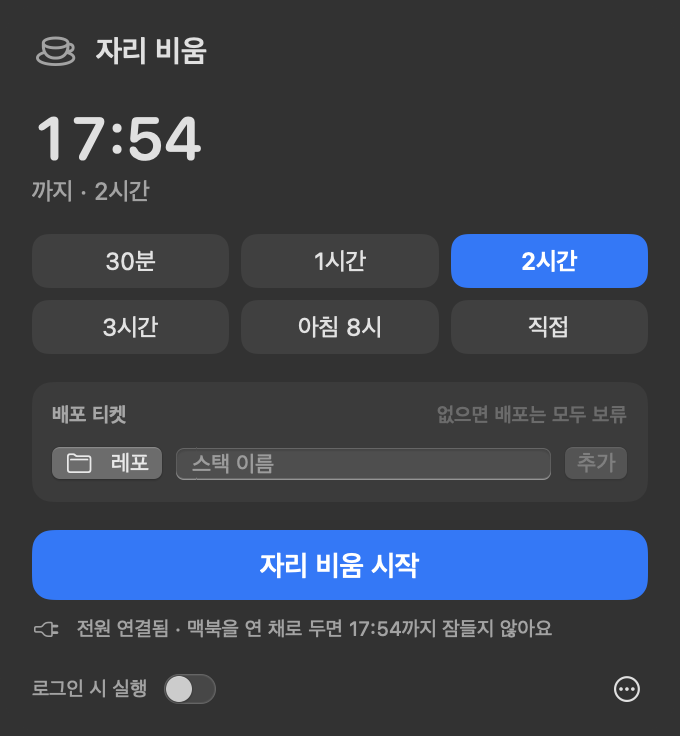
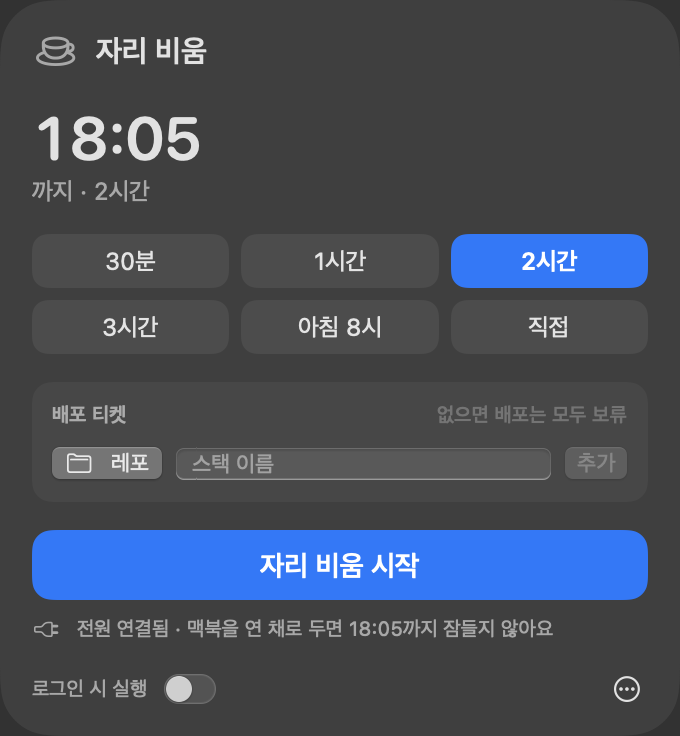
fix(macos): 둥근 패널 뒤의 네모난 창 제거 (투명 창을 직접 띄움)
MenuBarExtra(.window)는 시스템이 네모난 창 바탕을 깔아 둥근 판 뒤로 비쳤다.
밖에서 숨기는 방식은 두 번 실패해서 NSStatusItem + 테두리·그림자 없는
투명 NSPanel로 바꿨다. 화면 내용과 기능은 그대로다.

- 창 뒤 흐림 재질은 maskImage로 둥글게 자름
- 패널은 상단바 단추 아래에 위쪽을 고정해 내용 크기를 따라감, 밖을 누르면 닫힘
- 확인용 `AwayBar --open-check` (패널을 스스로 열어 창 상태 출력)

Changed region(s): [[0.525, 0.8438, 0.8029, 0.875], [0.1853, 0.1562, 0.3088, 0.2188], [0.0926, 0.1562, 0.1544, 0.2188]]

diff --git a/macos/Sources/AwayBar/AwayBarApp.swift b/macos/Sources/AwayBar/AwayBarApp.swift
@@ -1,29 +1,121 @@
 import AppKit
 import AwayCore
+import Combine
 import SwiftUI
 
 @main
-struct AwayBarApp: App {
-    @StateObject private var model = AwayModel()
-
-    init() {
+enum AwayBarApp {
+    @MainActor
+    static func main() {
         // 확인용: `AwayBar --snapshot <png>`는 패널을 창 없이 그려 저장하고 끝낸다 (상단바 패널은 자동 캡처가 어렵다).
         let args = CommandLine.arguments
         if let i = args.firstIndex(of: "--snapshot"), i + 1 < args.count {
             let j = args.firstIndex(of: "--do")
             Snapshot.run(to: args[i + 1], action: j.flatMap { $0 + 1 < args.count ? args[$0 + 1] : nil })
         }
+        let app = NSApplication.shared
+        let bar = BarController()
+        app.delegate = bar
+        app.setActivationPolicy(.accessory)
+        app.run()
+    }
+}
+
+/// 상단바 항목과 패널 창. SwiftUI `MenuBarExtra(.window)`는 시스템이 네모난 창 바탕을 깔아 둥근 판 뒤로 비쳐서,
+/// 테두리·바탕·그림자가 없는 투명한 창을 직접 띄운다 (바탕은 PanelBackground가 둥글게 그린다).
+@MainActor
+final class BarController: NSObject, NSApplicationDelegate, NSWindowDelegate {
+    private final class Panel: NSPanel {
+        override var canBecomeKey: Bool { true }
     }
 
-    var body: some Scene {
-        MenuBarExtra {
-            PanelView(model: model)
-        } label: {
-            Image(systemName: model.active ? "cup.and.heat.waves.fill" : "cup.and.saucer")
-            if model.active { Text(Format.remaining(model.remaining)).monospacedDigit() }
+    private let model = AwayModel()
+    private var item: NSStatusItem!
+    private var panel: Panel?
+    private var watch: AnyCancellable?
+    private var closedAt = Date.distantPast
+
+    func applicationDidFinishLaunching(_ notification: Notification) {
+        item = NSStatusBar.system.statusItem(withLength: NSStatusItem.variableLength)
+        item.button?.target = self
+        item.button?.action = #selector(toggle)
+        item.button?.imagePosition = .imageLeading
+        item.button?.font = .monospacedDigitSystemFont(ofSize: NSFont.systemFontSize, weight: .regular)
+        watch = model.objectWillChange.receive(on: RunLoop.main).sink { [weak self] in self?.updateLabel() }
+        updateLabel()
+        // 확인용: `AwayBar --open-check`는 패널을 스스로 열어 창 상태를 한 줄로 적고 끝낸다
+        if CommandLine.arguments.contains("--open-check") {
+            DispatchQueue.main.asyncAfter(deadline: .now() + 1) { self.show() }
+            DispatchQueue.main.asyncAfter(deadline: .now() + 3) {
+                let p = self.panel
+                print("visible=\(p?.isVisible ?? false) key=\(p?.isKeyWindow ?? false) frame=\(p?.frame ?? .zero) opaque=\(p?.isOpaque ?? true) shadow=\(p?.hasShadow ?? true) button=\(self.item.button?.window?.frame ?? .zero)")
+                exit(p?.isVisible == true ? 0 : 1)
+            }
         }
-        .menuBarExtraStyle(.window)
     }
+
+    private func updateLabel() {
+        guard let button = item.button else { return }
+        let image = NSImage(systemSymbolName: model.active ? "cup.and.heat.waves.fill" : "cup.and.saucer", accessibilityDescription: "자리 비움")
+        image?.isTemplate = true
+        button.image = image
+        button.title = model.active ? Format.remaining(model.remaining) : ""
+    }
+
+    @objc private func toggle() {
+        if let panel, panel.isVisible { hide(); return }
+        // 열린 패널에서 상단바 단추를 누르면 먼저 포커스를 잃어 닫힌다 → 곧바로 다시 열지 않는다
+        if Date().timeIntervalSince(closedAt) < 0.25 { return }
+        show()
+    }
+
+    private func show() {
+        let panel = self.panel ?? makePanel()
+        self.panel = panel
+        model.panelOpen = true
+        model.refresh()
+        panel.contentView?.layoutSubtreeIfNeeded()
+        place(panel, size: panel.contentView?.fittingSize ?? panel.frame.size)
+        NSApp.activate(ignoringOtherApps: true)
+        panel.makeKeyAndOrderFront(nil)
+    }
+
+    private func hide() {
+        panel?.orderOut(nil)
+        model.panelOpen = false
+        closedAt = Date()
+    }
+
+    private func makePanel() -> Panel {
+        let panel = Panel(contentRect: NSRect(x: 0, y: 0, width: 340, height: 10), styleMask: [.borderless, .nonactivatingPanel],
+                          backing: .buffered, defer: false)
+        panel.isOpaque = false
+        panel.backgroundColor = .clear
+        panel.hasShadow = false
+        panel.level = .popUpMenu
+        panel.collectionBehavior = [.transient, .ignoresCycle, .fullScreenAuxiliary]
+        panel.isReleasedWhenClosed = false
+        panel.delegate = self
+        let root = PanelView(model: model).fixedSize()
+            .onGeometryChange(for: CGSize.self) { $0.size } action: { [weak self, weak panel] size in
+                if let panel { self?.place(panel, size: size) }
+            }
+        panel.contentView = NSHostingView(rootView: root)
+        return panel
+    }
+
+    /// 상단바 단추 바로 아래에, 위쪽 가장자리를 고정하고 화면 밖으로 나가지 않게 놓는다.
+    private func place(_ panel: NSPanel, size: CGSize) {
+        guard size.width > 0, size.height > 0, let button = item.button, let anchor = button.window else { return }
+        let rect = anchor.convertToScreen(button.convert(button.bounds, to: nil))
+        var x = rect.midX - size.width / 2
+        if let visible = (anchor.screen ?? NSScreen.main)?.visibleFrame {
+            x = max(visible.minX + 8, min(x, visible.maxX - size.width - 8))
+        }
+        panel.setFrame(NSRect(x: x, y: rect.minY - 6 - size.height, width: size.width, height: size.height), display: true)
+    }
+
+    func windowDidResignKey(_ notification: Notification) { hide() }
 }
 
 @MainActor

diff --git a/macos/Sources/AwayBar/PanelView.swift b/macos/Sources/AwayBar/PanelView.swift
@@ -332,13 +332,12 @@ struct PanelBackground: View {
 
     var body: some View {
         ZStack {
-            WindowClearer()
+            // 창 뒤를 흐리는 재질을 둥근 모양으로 (창 자체는 투명하다)
+            Material(material: .menu, radius: Self.radius)
             if #available(macOS 26.0, *) {
                 // 맑은 유리 + 글자가 읽히게 옅은 바탕색
                 Color(nsColor: .windowBackgroundColor).opacity(0.22)
                     .glassEffect(.clear, in: .rect(cornerRadius: Self.radius, style: .continuous))
-            } else {
-                Material(material: .menu)
             }
         }
     }
@@ -346,47 +345,22 @@ struct PanelBackground: View {
 
 private struct Material: NSViewRepresentable {
     var material: NSVisualEffectView.Material
+    var radius: CGFloat
+
     func makeNSView(context: Context) -> NSVisualEffectView {
         let v = NSVisualEffectView()
         v.material = material; v.blendingMode = .behindWindow; v.state = .active
+        // 창 뒤 흐림은 layer 모서리로 잘리지 않는다 → 늘어나는 둥근 마스크 그림으로 자른다
+        let r = radius, side = r * 2 + 1
+        let mask = NSImage(size: NSSize(width: side, height: side), flipped: false) { rect in
+            NSColor.black.setFill()
+            NSBezierPath(roundedRect: rect, xRadius: r, yRadius: r).fill()
+            return true
+        }
+        mask.capInsets = NSEdgeInsets(top: r, left: r, bottom: r, right: r)
+        mask.resizingMode = .stretch
+        v.maskImage = mask
         return v
     }
     func updateNSView(_ v: NSVisualEffectView, context: Context) {}
-}
-
-/// 창을 투명하게 하고, 우리 내용을 품지 않은 시스템 바탕 재질 뷰는 숨긴다 (품고 있으면 메뉴 재질로만 바꾼다).
-private struct WindowClearer: NSViewRepresentable {
-    final class Probe: NSView {
-        override func viewDidMoveToWindow() {
-            super.viewDidMoveToWindow()
-            DispatchQueue.main.async { [weak self] in self?.apply() }
-        }
-
-        func apply() {
-            guard let window, let root = window.contentView?.superview ?? window.contentView else { return }
-            // 우리 SwiftUI 내용을 담은 가장 바깥 뷰: 그 안의 재질 뷰(우리 바탕)는 건드리지 않는다
-            var mine: NSView = self
-            while let up = mine.superview, up !== root, !(up is NSVisualEffectView) { mine = up }
-            window.isOpaque = false
-            window.backgroundColor = .clear
-            func walk(_ view: NSView) {
-                if view === mine { return }
-                if let fx = view as? NSVisualEffectView {
-                    if mine.isDescendant(of: fx) { fx.material = .menu; fx.state = .active } else { fx.isHidden = true }
-                }
-                view.subviews.forEach(walk)
-            }
-            walk(root)
-            // 창 그림자는 네모난 창 모양을 따라 테두리처럼 보인다 → 끈다. 남은 테두리 선도 지운다
-            window.hasShadow = false
-            func strip(_ view: NSView) {
-                if !view.isDescendant(of: mine) { view.layer?.borderWidth = 0 }
-                if view !== mine { view.subviews.forEach(strip) }
-            }
-            strip(root)
-        }
-    }
-
-    func makeNSView(context: Context) -> Probe { Probe() }
-    func updateNSView(_ v: Probe, context: Context) { DispatchQueue.main.async { v.apply() } }
 }
